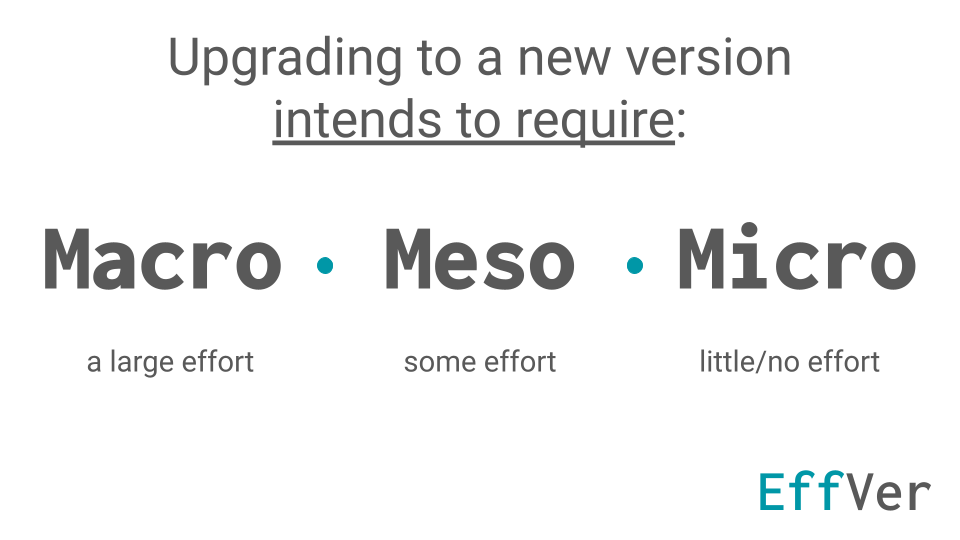
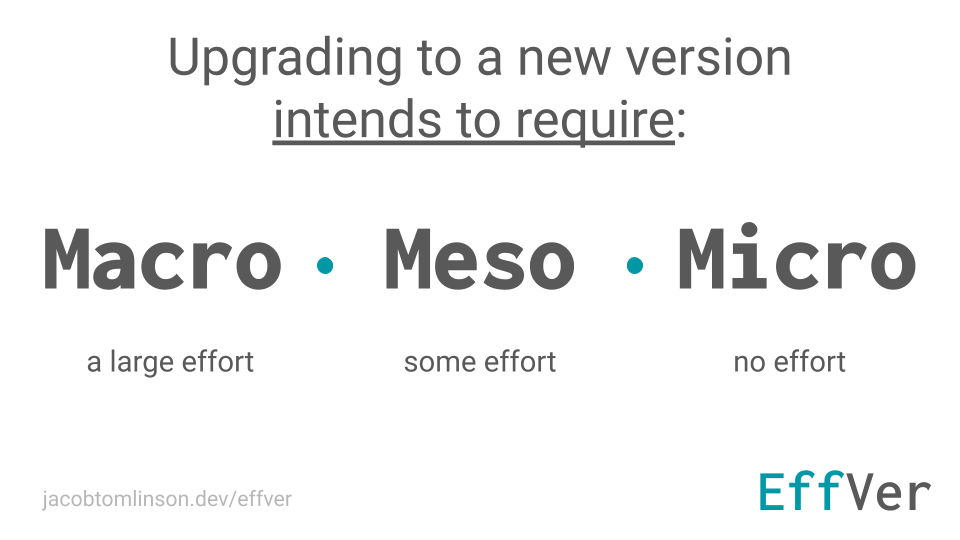
Remove little from image and add section on over-bumping

Changed region(s): [[0.7188, 0.6519, 0.9375, 0.7111], [0.0312, 0.8889, 0.3125, 0.9481]]

diff --git a/content/posts/2024/2024-01-15-effver/index.md b/content/posts/2024/2024-01-15-effver/index.md
@@ -54,6 +54,18 @@ Now users who have pinned to `~2.3.4` will be upgraded to `2.3.6` which is exact
 
 I haven't needed to change my code or make any new commits, I just add more tags to clearly communicate the impact of the releases. In theory I could also yank `2.3.5` because it is "wrong", but in practice superseding it with `2.3.6` should be enough.
 
+## Over-bumping
+
+The rules of <span style="color: #0097a7">EffVer</span> are intended to help you choose the minimum increment that you need to make in order to adequately communicate the impact of a release. However, there are cases where you want to bump a higher segment to signal something other than impact. For example if you add a new big feature to your project there may be an expectation to bump the _meso_ number simply because users have grown used to SemVer bumping the middle number for new features, even if there is no impact from it. This is because adding a new feature and then only bumping the _micro_ version feels weird.
+
+In <span style="color: #0097a7">EffVer</span> we refer to this as _over-bumping_, and there is no problem with doing this. This may result in users being more cautious to move to a newer version than they need to be, but that's the only negative effect of doing this.
+
+You might also decide that you want to add loads of new amazing features to your project, and then you want to bump the _macro_ version to signal to your users that this release is a big deal. "Go check out all the amazing new things in version 4.0!". In SemVer the first segment is used to signal breaking changes, and in EffVer it's used to signal big impacts to current users. But it's also used to mark large milestones, even if they aren't breaking or impactful.
+
+Ultimately you are trying to decide how much warning you want to give to users, and generally we don't want to warn unless necessary as it disincentives upgrades. However, in cases where you want to communicate features or milestones then there's value in _over-bumping_ in order to communicate more effectively.
+
+One of the downsides of SemVer is under-bumping. A maintainer may make a release which contains a breaking change, but doesn't increment the major version because it's too disruptive. This means that users are unpleasantly surprised by things breaking when they didn't expect it to. By leaning towards _over-bumping_ in <span style="color: #0097a7">EffVer</span> users are instead pleasantly surprised by the lack of impact when cautously adopting an _over-bumped_ release. It's a positive failure mode instead of a negative one.
+
 ## Zero version
 
 In SemVer the `0.x.x` version has become known as the YOLO version because anything goes. Any change can be breaking and so the semantics around backward compatibility become meaningless.
